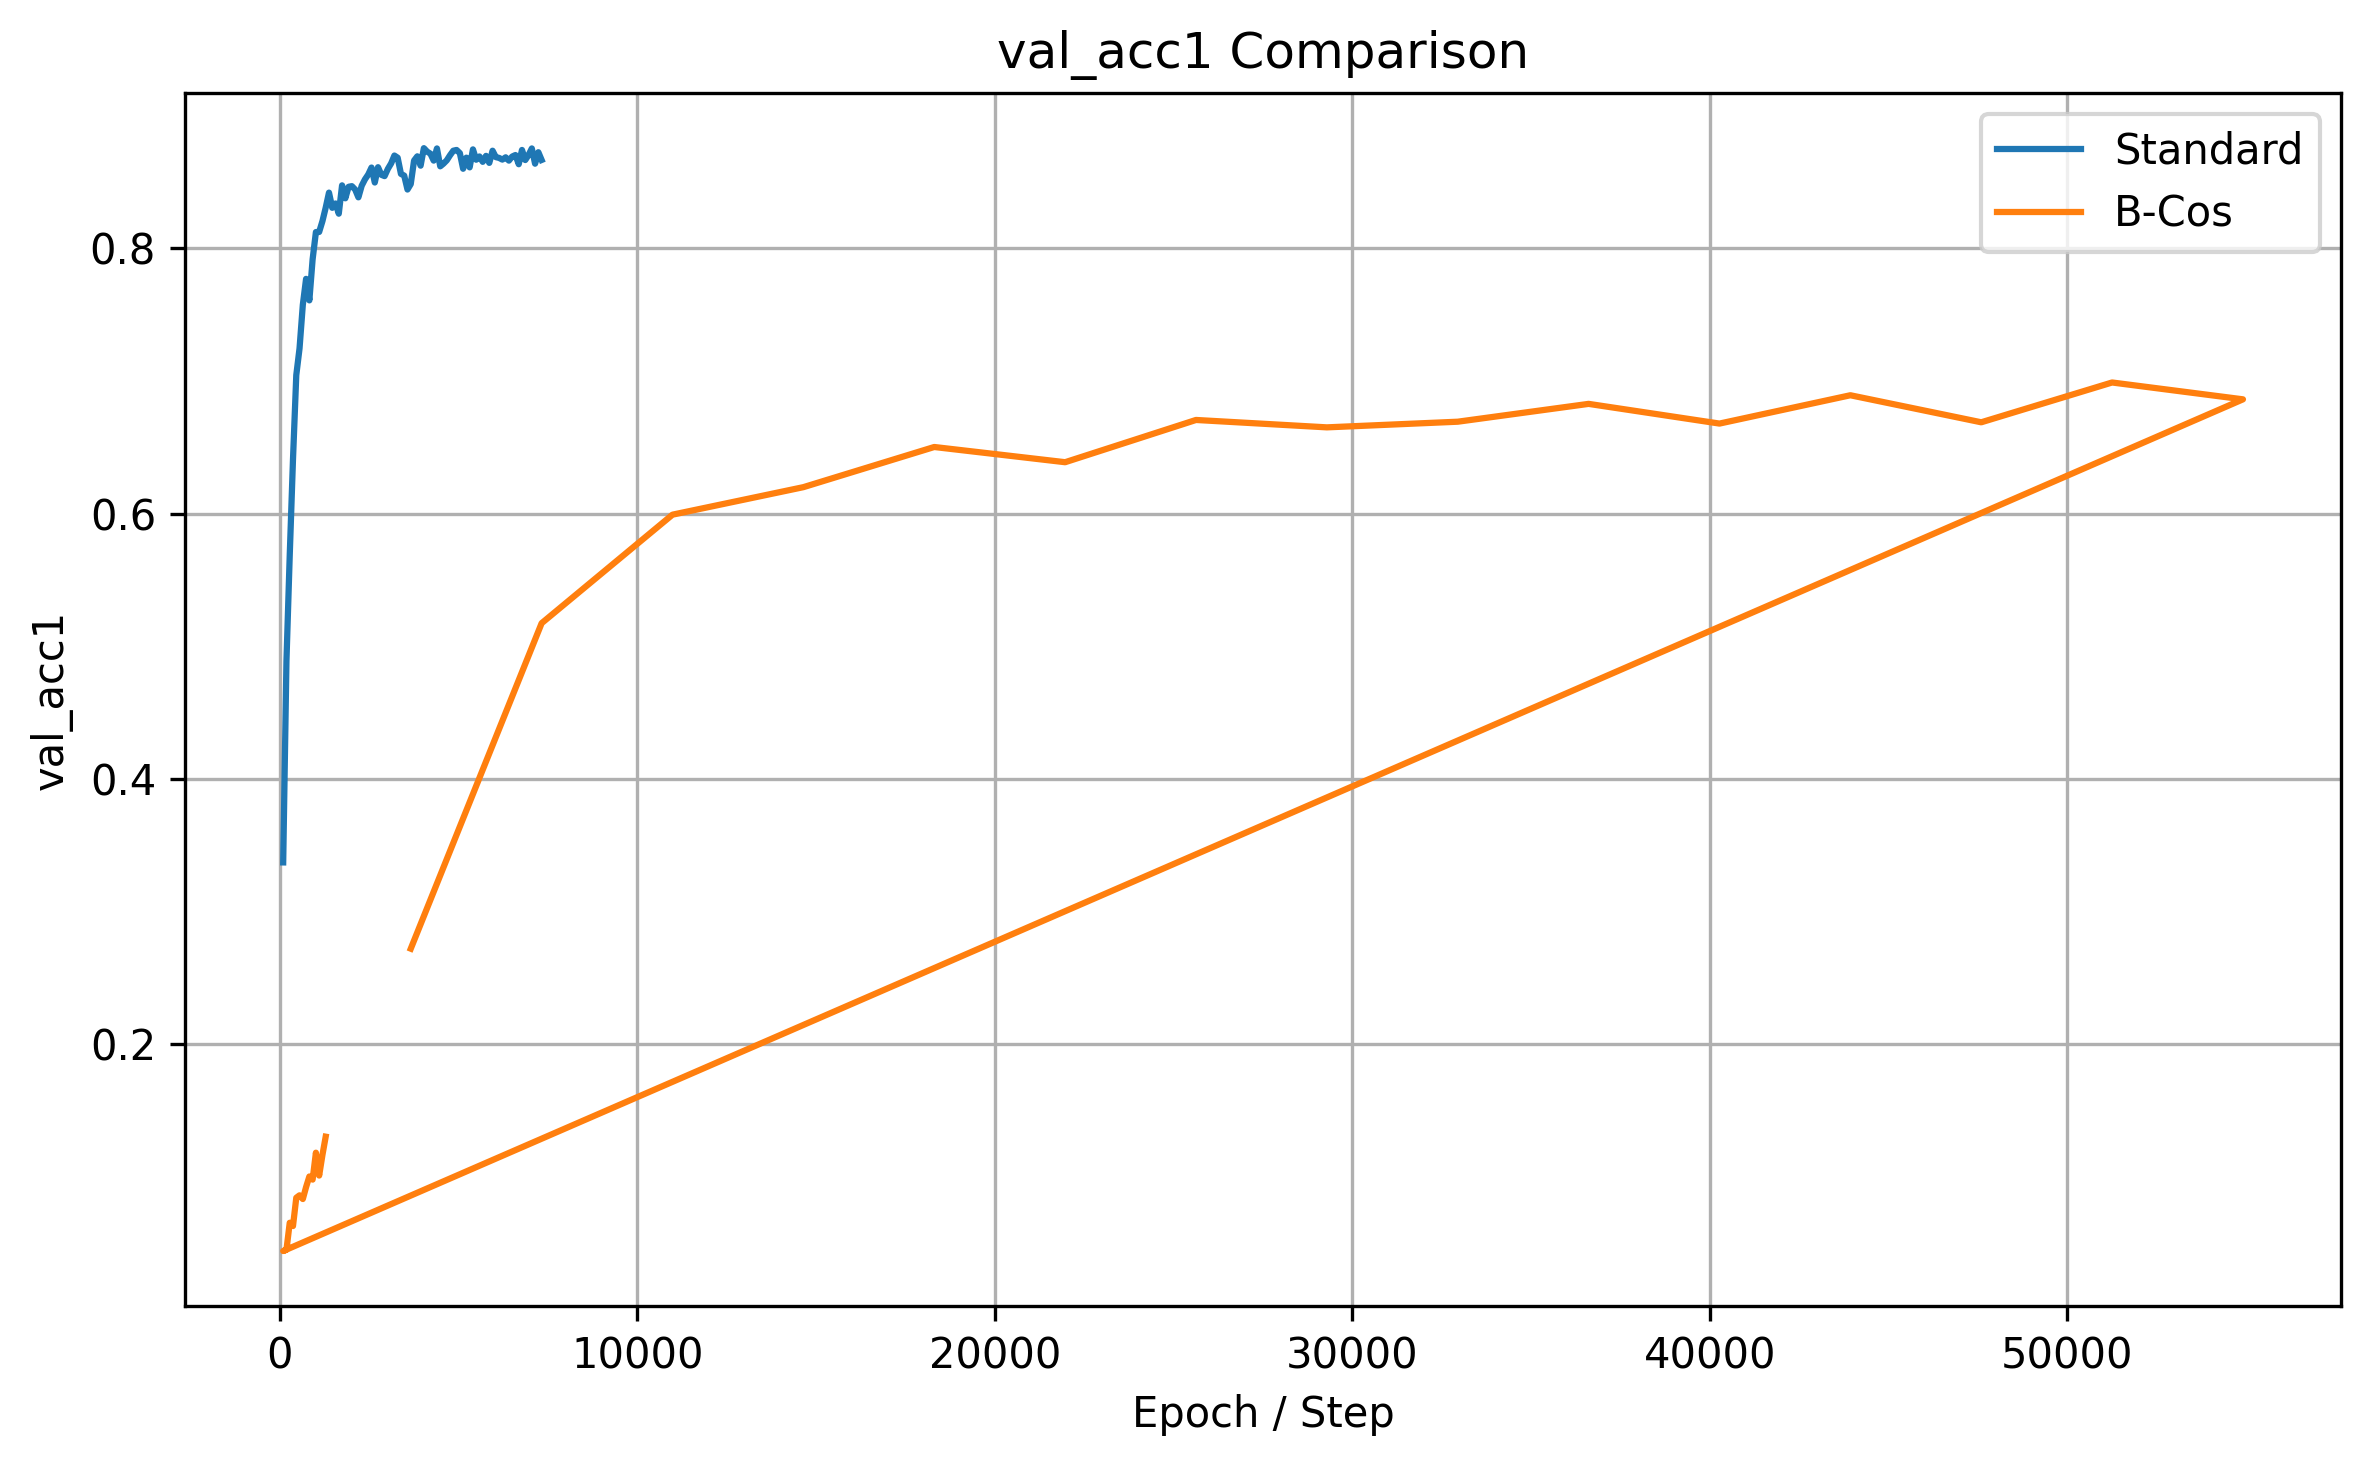
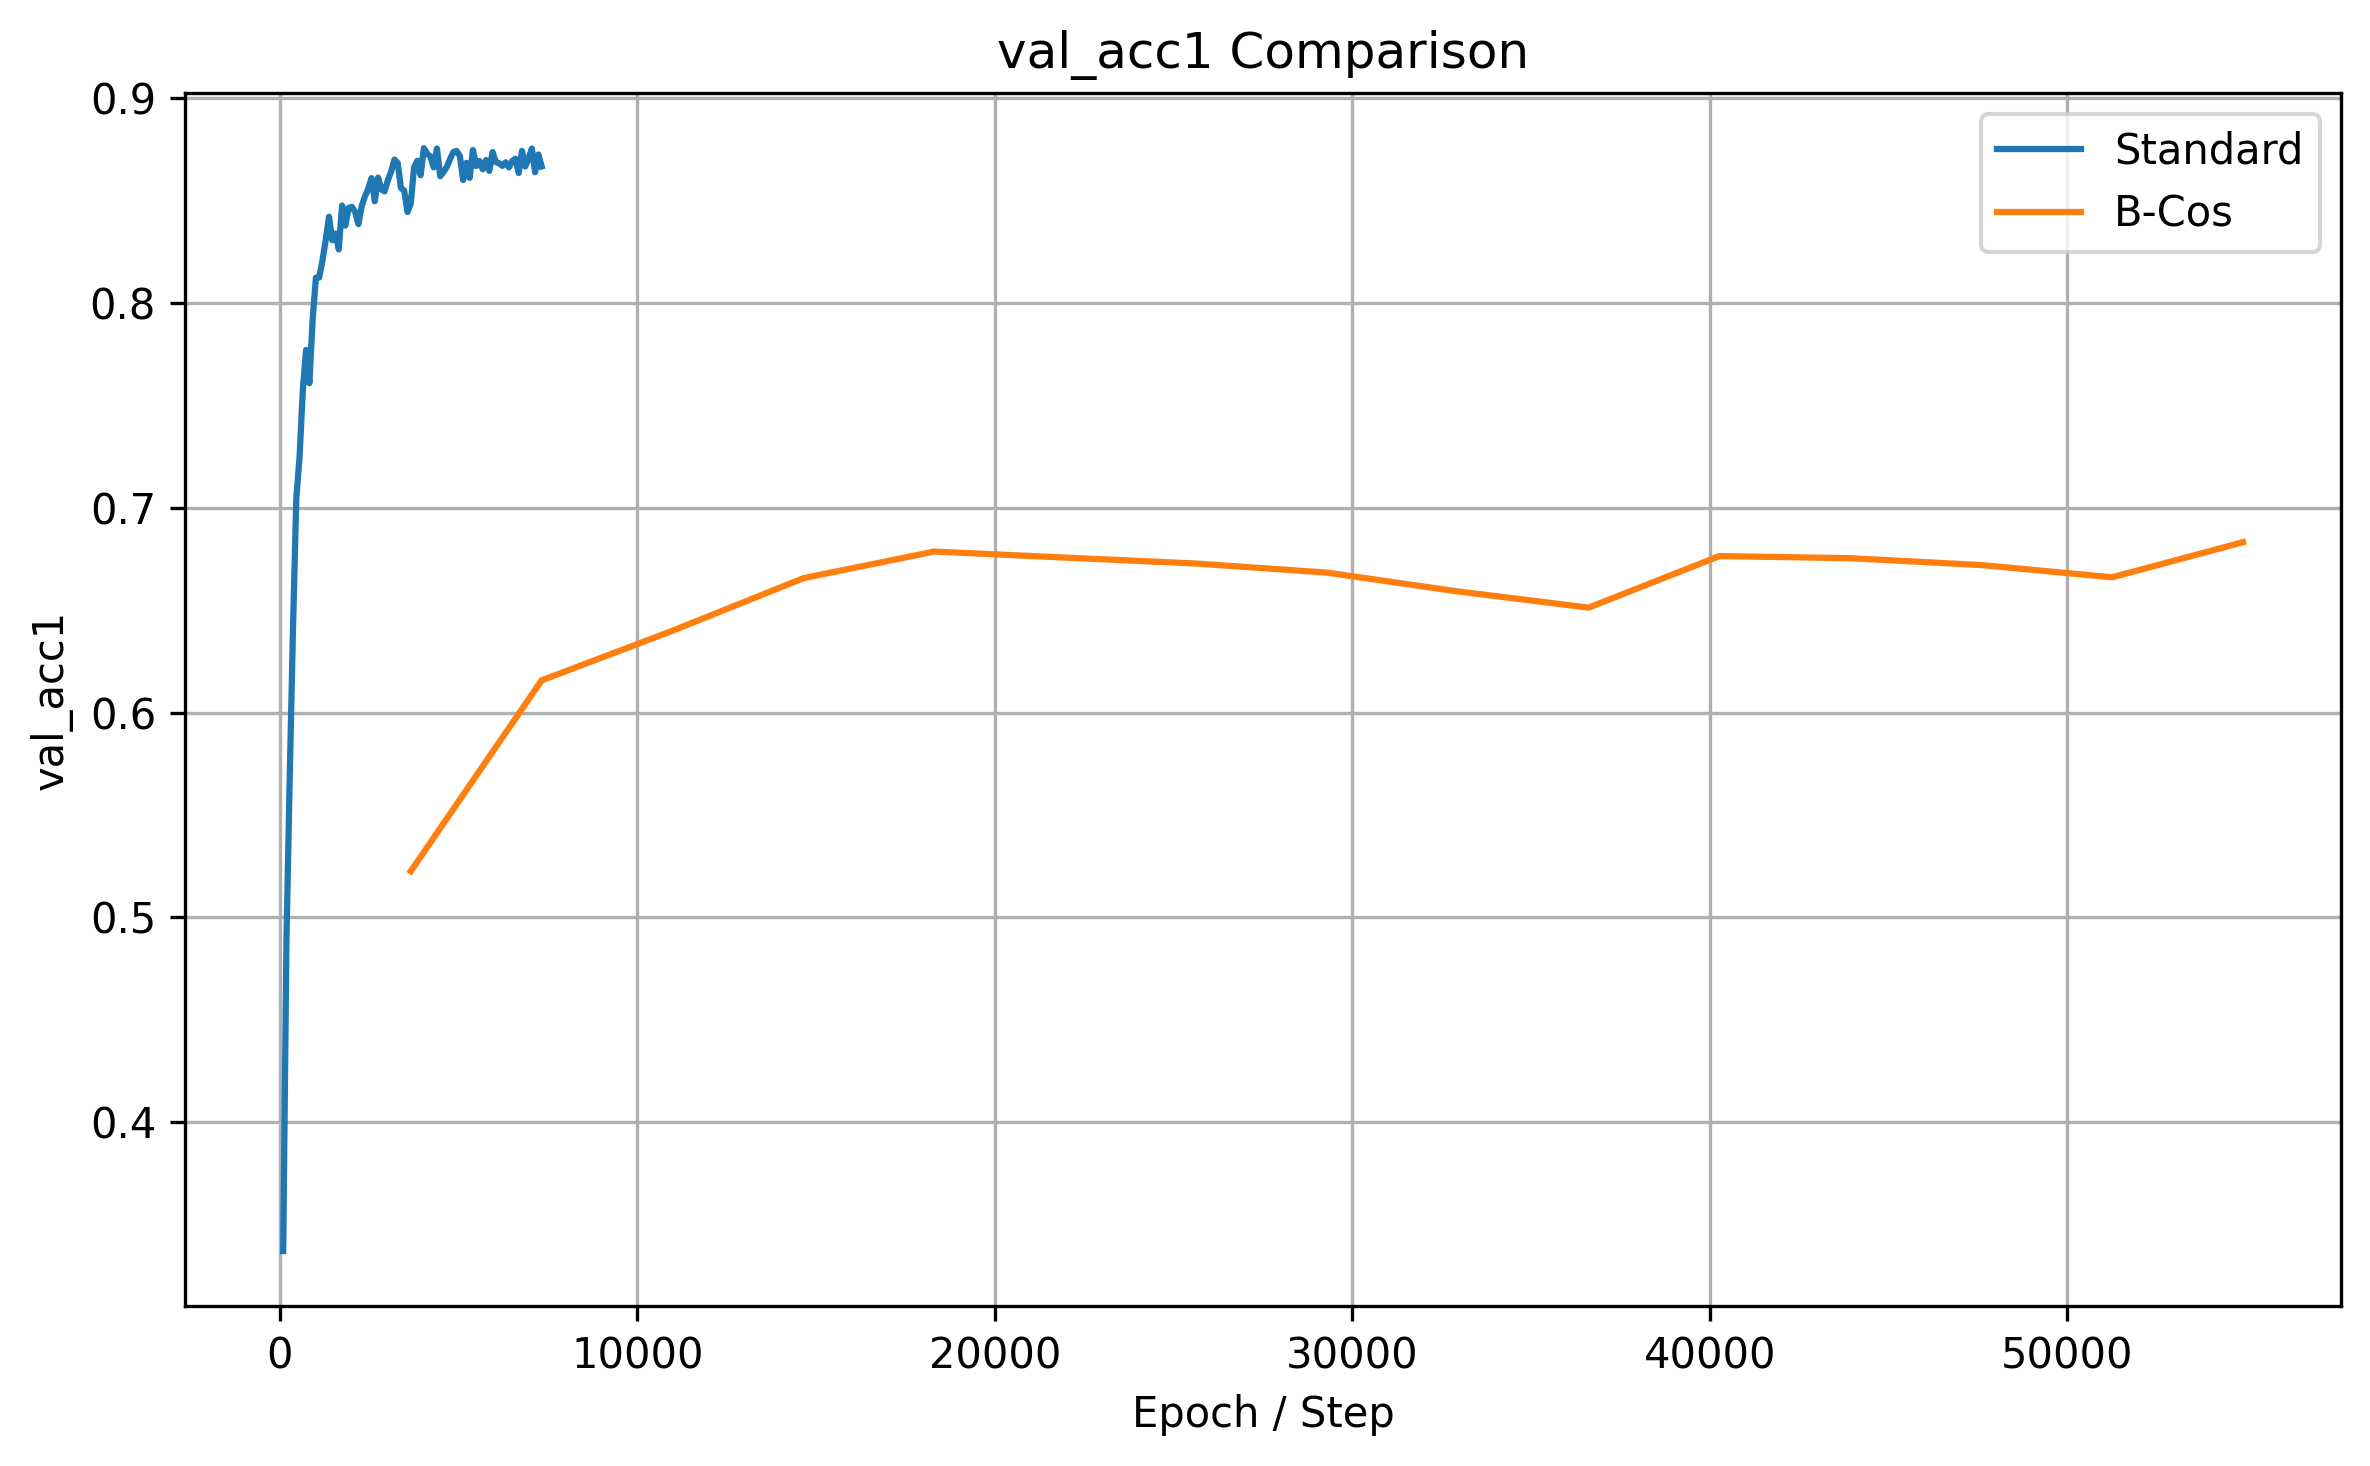
e1

diff --git a/bcos/experiments/UCF101/bcosification/experiment_parameters.py b/bcos/experiments/UCF101/bcosification/experiment_parameters.py
@@ -31,8 +31,8 @@ DEFAULT_NUM_EPOCHS = 50
 DEFAULT_LR = 1e-4
 DEFAULT_CROP_SIZE = 224
 
-DEFAULT_NORM_LAYER = norms.NoBias(norms.BatchNormUncentered3d)  # bnu-linear
-#DEFAULT_NORM_LAYER = nn.BatchNorm3d
+#DEFAULT_NORM_LAYER = norms.NoBias(norms.BatchNormUncentered3d)  # bnu-linear
+DEFAULT_NORM_LAYER = nn.BatchNorm3d
 DEFAULT_OPTIMIZER = OptimizerFactory(name="Adam", lr=DEFAULT_LR, bcosify=True, b_opt = False, weight_decay=1e-4)
 DEFAULT_LR_SCHEDULE = LRSchedulerFactory(
     name="cosineannealinglr",
@@ -61,7 +61,7 @@ DEFAULTS = dict(
             logit_bias=-math.log(NUM_CLASSES - 1),
         ),
         bcos_args=dict(
-            b=1.5,
+            b=1,
             max_out=1,
         ),
     ),

diff --git a/bcos/experiments/UCF101/bcosification/model.py b/bcos/experiments/UCF101/bcosification/model.py
@@ -52,9 +52,9 @@ def get_model(model_config) -> nn.Module:
     #    exec(f'model.model.{k} = v')
     
     # Making all the bias parameters None
-    print("Removing bias parameters (making None)")
-    for mod in model.modules():
-      if hasattr(mod, "bias") and mod.bias is not None:
-          mod.bias = None
+    #print("Removing bias parameters (making None)")
+    #for mod in model.modules():
+    #  if hasattr(mod, "bias") and mod.bias is not None:
+    #      mod.bias = None
 
     return model
